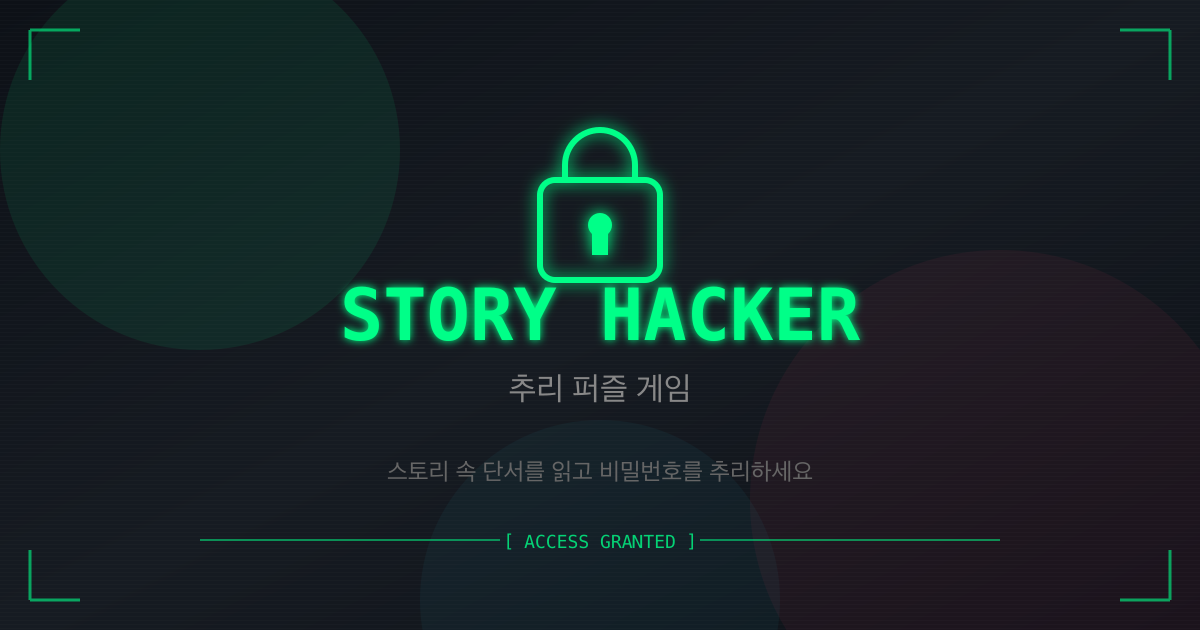
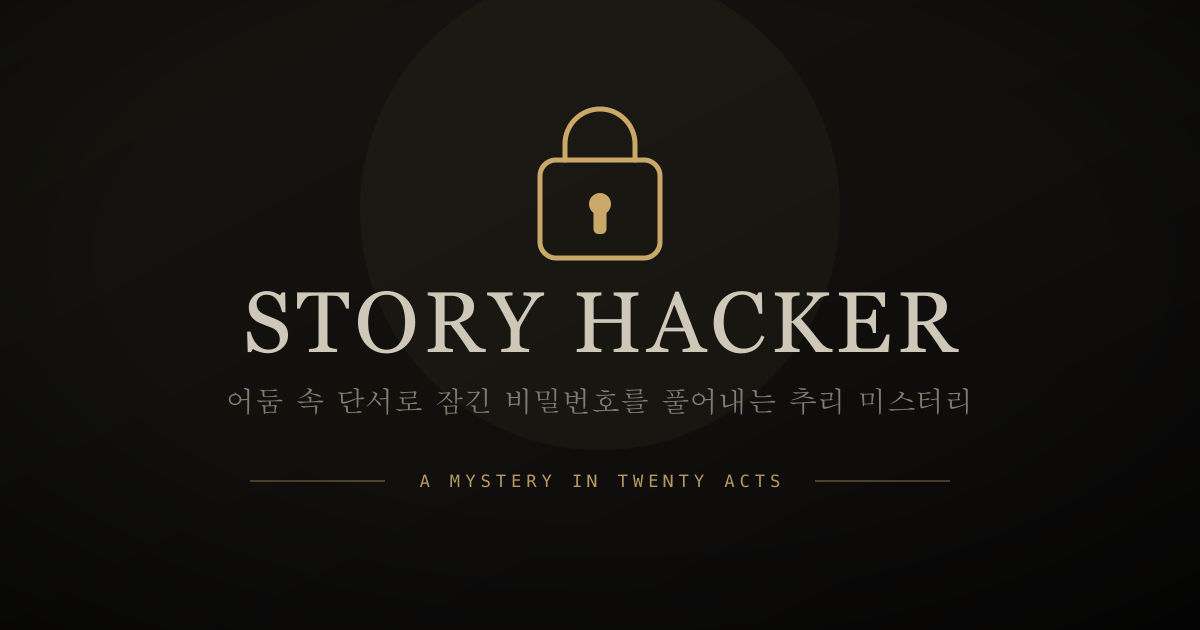
feat: OG 이미지 및 UI 다크 미스터리 테마로 업데이트
- 다크 컬러 팔레트와 골드 강조를 활용한 "Nocturne" 스타일 적용
- OG 이미지 배경 및 자물쇠 그래픽에 새로운 그라데이션과 비네팅 효과 추가
- 타이틀, 서브타이틀 폰트 변경 및 레이아웃 개선
- SEO 메타데이터 수정 (제목 및 설명 업데이트)
- 앱 아이콘 스타일 변경 및 고해상도 이미지 대체

diff --git a/scripts/gen-og-image.js b/scripts/gen-og-image.js
@@ -5,72 +5,48 @@ const OUTPUT_PATH = "public/og-image.png";
 const WIDTH = 1200;
 const HEIGHT = 630;
 
-// OG 이미지용 SVG 생성
+// OG 이미지용 SVG — NOCTURNE: 다크 문학 미스터리 톤
 const svgContent = `
 <svg width="${WIDTH}" height="${HEIGHT}" xmlns="http://www.w3.org/2000/svg">
   <defs>
     <linearGradient id="bg" x1="0%" y1="0%" x2="100%" y2="100%">
-      <stop offset="0%" style="stop-color:#0D1117"/>
-      <stop offset="50%" style="stop-color:#161B22"/>
-      <stop offset="100%" style="stop-color:#0D1117"/>
+      <stop offset="0%" style="stop-color:#16140f"/>
+      <stop offset="55%" style="stop-color:#100f0d"/>
+      <stop offset="100%" style="stop-color:#0a0908"/>
     </linearGradient>
-    <filter id="glow" x="-50%" y="-50%" width="200%" height="200%">
-      <feGaussianBlur stdDeviation="4" result="blur"/>
-      <feMerge>
-        <feMergeNode in="blur"/>
-        <feMergeNode in="SourceGraphic"/>
-      </feMerge>
-    </filter>
-    <filter id="glowStrong" x="-50%" y="-50%" width="200%" height="200%">
-      <feGaussianBlur stdDeviation="8" result="blur"/>
-      <feMerge>
-        <feMergeNode in="blur"/>
-        <feMergeNode in="SourceGraphic"/>
-      </feMerge>
-    </filter>
+    <radialGradient id="vignette" cx="50%" cy="40%" r="78%">
+      <stop offset="52%" style="stop-color:#000000" stop-opacity="0"/>
+      <stop offset="100%" style="stop-color:#000000" stop-opacity="0.55"/>
+    </radialGradient>
   </defs>
 
   <!-- 배경 -->
   <rect width="${WIDTH}" height="${HEIGHT}" fill="url(#bg)"/>
 
-  <!-- 배경 글로우 효과 -->
-  <circle cx="200" cy="150" r="200" fill="#00FF88" opacity="0.08"/>
-  <circle cx="1000" cy="500" r="250" fill="#FF3366" opacity="0.06"/>
-  <circle cx="600" cy="600" r="180" fill="#22d3ee" opacity="0.05"/>
+  <!-- 마크 뒤 은은한 골드 글로우 -->
+  <circle cx="600" cy="210" r="240" fill="#c9a86a" opacity="0.05"/>
 
-  <!-- 스캔라인 효과 -->
-  <pattern id="scanlines" patternUnits="userSpaceOnUse" width="4" height="4">
-    <line x1="0" y1="0" x2="4" y2="0" stroke="rgba(255,255,255,0.03)" stroke-width="1"/>
-  </pattern>
-  <rect width="${WIDTH}" height="${HEIGHT}" fill="url(#scanlines)"/>
-
-  <!-- 자물쇠 아이콘 -->
-  <g transform="translate(540, 140)" filter="url(#glowStrong)">
-    <rect x="0" y="40" width="120" height="100" rx="15" fill="none" stroke="#00FF88" stroke-width="6"/>
-    <path d="M25 40V25a35 35 0 0 1 70 0v15" fill="none" stroke="#00FF88" stroke-width="6" stroke-linecap="round"/>
-    <circle cx="60" cy="85" r="12" fill="#00FF88"/>
-    <rect x="52" y="85" width="16" height="30" fill="#00FF88"/>
+  <!-- 자물쇠 아이콘 (골드 아웃라인) -->
+  <g transform="translate(540, 118)">
+    <rect x="0" y="42" width="120" height="98" rx="16" fill="none" stroke="#c9a86a" stroke-width="5"/>
+    <path d="M25 42V26a35 35 0 0 1 70 0v16" fill="none" stroke="#c9a86a" stroke-width="5" stroke-linecap="round"/>
+    <circle cx="60" cy="86" r="11" fill="#c9a86a"/>
+    <rect x="53.5" y="86" width="13" height="30" rx="5" fill="#c9a86a"/>
   </g>
 
   <!-- 타이틀 -->
-  <text x="600" y="340" text-anchor="middle" font-family="monospace" font-size="72" font-weight="bold" fill="#00FF88" filter="url(#glow)">STORY HACKER</text>
+  <text x="600" y="352" text-anchor="middle" font-family="Georgia, 'Times New Roman', serif" font-size="86" fill="#cfc7b8" letter-spacing="5">STORY HACKER</text>
 
   <!-- 서브타이틀 -->
-  <text x="600" y="400" text-anchor="middle" font-family="sans-serif" font-size="32" fill="#888888">추리 퍼즐 게임</text>
+  <text x="600" y="412" text-anchor="middle" font-family="Georgia, 'Times New Roman', serif" font-size="29" fill="#837c6e">어둠 속 단서로 잠긴 비밀번호를 풀어내는 추리 미스터리</text>
 
-  <!-- 설명 -->
-  <text x="600" y="480" text-anchor="middle" font-family="sans-serif" font-size="24" fill="#666666">스토리 속 단서를 읽고 비밀번호를 추리하세요</text>
+  <!-- 하단 장식 — 텍스트 양옆을 비켜선 헤어라인 -->
+  <line x1="250" y1="481" x2="385" y2="481" stroke="#8f7a4e" stroke-width="1.5" opacity="0.65"/>
+  <line x1="815" y1="481" x2="950" y2="481" stroke="#8f7a4e" stroke-width="1.5" opacity="0.65"/>
+  <text x="600" y="487" text-anchor="middle" font-family="monospace" font-size="17" fill="#c9a86a" letter-spacing="5" opacity="0.9">A MYSTERY IN TWENTY ACTS</text>
 
-  <!-- 하단 장식 -->
-  <line x1="200" y1="540" x2="500" y2="540" stroke="#00FF88" stroke-width="2" opacity="0.5"/>
-  <line x1="700" y1="540" x2="1000" y2="540" stroke="#00FF88" stroke-width="2" opacity="0.5"/>
-  <text x="600" y="548" text-anchor="middle" font-family="monospace" font-size="18" fill="#00FF88" opacity="0.8">[ ACCESS GRANTED ]</text>
-
-  <!-- 코너 장식 -->
-  <path d="M30 30 L30 80 M30 30 L80 30" stroke="#00FF88" stroke-width="3" opacity="0.6"/>
-  <path d="M1170 30 L1170 80 M1170 30 L1120 30" stroke="#00FF88" stroke-width="3" opacity="0.6"/>
-  <path d="M30 600 L30 550 M30 600 L80 600" stroke="#00FF88" stroke-width="3" opacity="0.6"/>
-  <path d="M1170 600 L1170 550 M1170 600 L1120 600" stroke="#00FF88" stroke-width="3" opacity="0.6"/>
+  <!-- 비네팅 -->
+  <rect width="${WIDTH}" height="${HEIGHT}" fill="url(#vignette)"/>
 </svg>
 `;
 

diff --git a/app/layout.tsx b/app/layout.tsx
@@ -5,9 +5,9 @@ import './globals.css';
 const SITE_URL = 'https://story-hacker.vercel.app';
 
 export const metadata: Metadata = {
-  title: 'Story Hacker - 추리 퍼즐 게임',
-  description: '스토리 속 단서를 읽고 비밀번호를 추리하는 퍼즐 게임',
-  keywords: ['퍼즐', '추리', '게임', '스토리', '해커', 'puzzle', 'mystery'],
+  title: 'Story Hacker — 추리 미스터리 퍼즐',
+  description: '어둠 속 단서를 읽고, 잠긴 비밀번호를 풀어내는 추리 미스터리 게임',
+  keywords: ['추리', '미스터리', '퍼즐', '게임', '스토리', '해커', 'puzzle', 'mystery', 'noir'],
   authors: [{ name: 'Story Hacker' }],
   manifest: '/manifest.json',
   appleWebApp: {
@@ -20,21 +20,21 @@ export const metadata: Metadata = {
     locale: 'ko_KR',
     url: SITE_URL,
     siteName: 'Story Hacker',
-    title: 'Story Hacker - 추리 퍼즐 게임',
-    description: '스토리 속 단서를 읽고 비밀번호를 추리하는 퍼즐 게임',
+    title: 'Story Hacker — 추리 미스터리 퍼즐',
+    description: '어둠 속 단서를 읽고, 잠긴 비밀번호를 풀어내는 추리 미스터리 게임',
     images: [
       {
         url: `${SITE_URL}/og-image.png`,
         width: 1200,
         height: 630,
-        alt: 'Story Hacker - 추리 퍼즐 게임',
+        alt: 'Story Hacker — 추리 미스터리 퍼즐',
       },
     ],
   },
   twitter: {
     card: 'summary_large_image',
-    title: 'Story Hacker - 추리 퍼즐 게임',
-    description: '스토리 속 단서를 읽고 비밀번호를 추리하는 퍼즐 게임',
+    title: 'Story Hacker — 추리 미스터리 퍼즐',
+    description: '어둠 속 단서를 읽고, 잠긴 비밀번호를 풀어내는 추리 미스터리 게임',
     images: [`${SITE_URL}/og-image.png`],
   },
   icons: {
